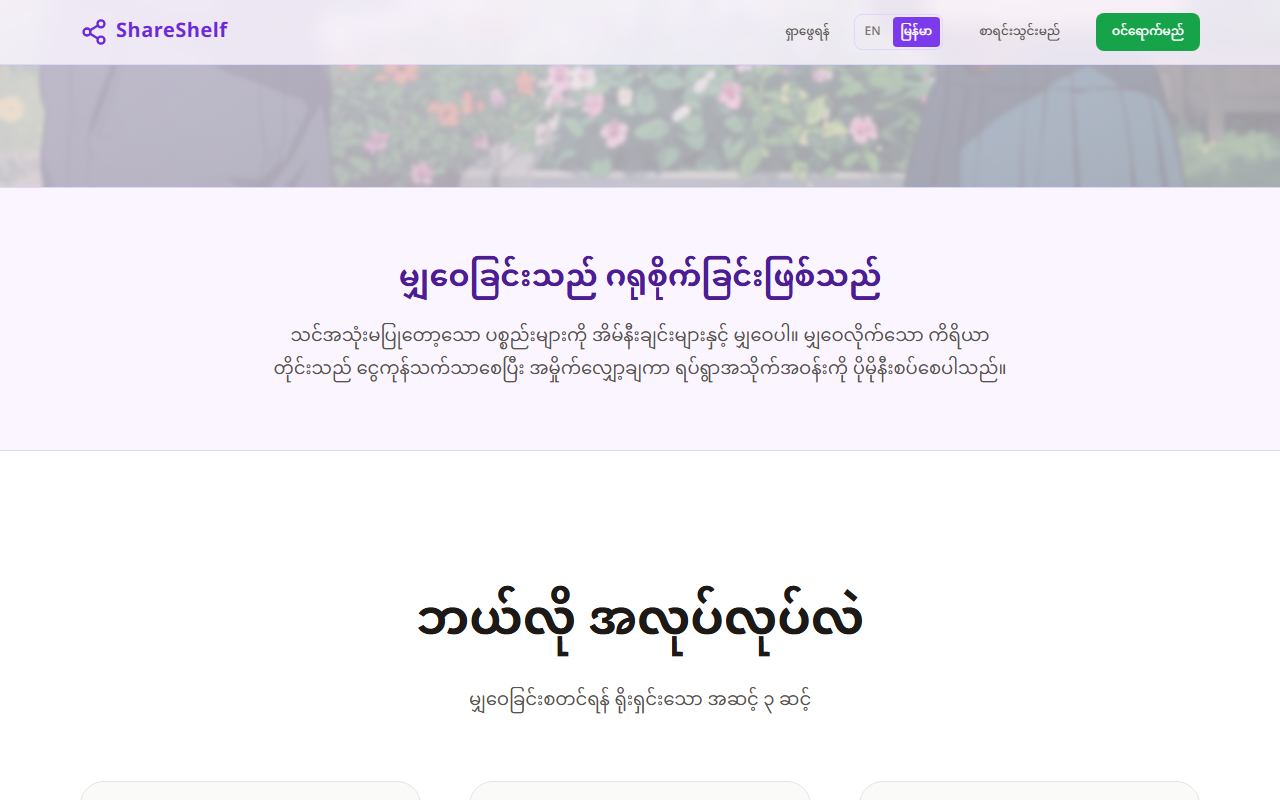
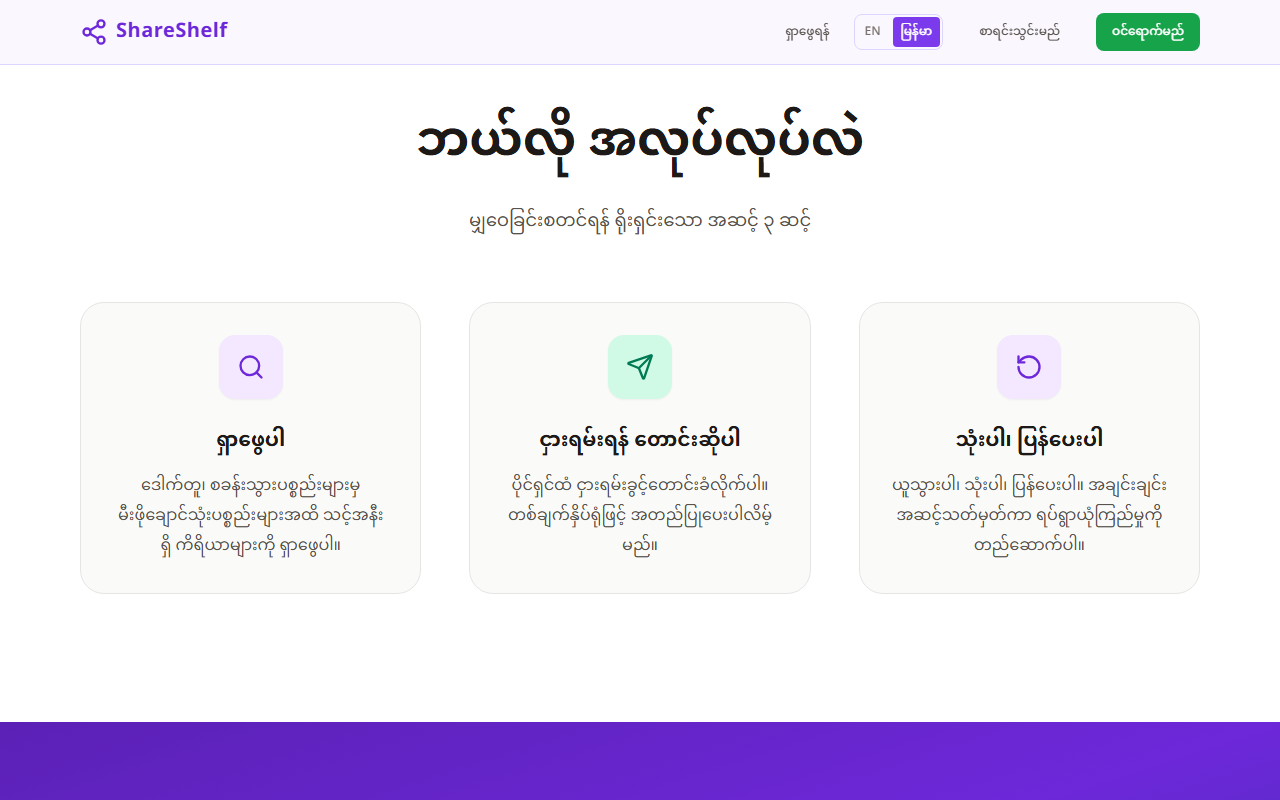
Update screenshots and add screenshot script

diff --git a/frontend/screenshot.js b/frontend/screenshot.js
@@ -1,0 +1,63 @@
+const { chromium } = require('playwright');
+const fs = require('fs');
+
+(async () => {
+  const browser = await chromium.launch();
+  const context = await browser.newContext({ viewport: { width: 1280, height: 800 } });
+  const page = await context.newPage();
+  
+  console.log('Loading page...');
+  await page.goto('https://share-shelf-ashen.vercel.app/my');
+  await page.waitForTimeout(5000);
+
+  // 1. Hero
+  console.log('Taking screenshot 1 (Hero)...');
+  await page.evaluate(() => window.scrollTo(0, 0));
+  await page.waitForTimeout(1000);
+  await page.screenshot({ path: '../screenshots/01.png' });
+
+  // 2. How it works
+  console.log('Taking screenshot 2 (How it works)...');
+  await page.evaluate(() => {
+    const headings = Array.from(document.querySelectorAll('h2, h3'));
+    // Find the heading that contains the text
+    const target = headings.find(h => h.innerText.includes('ဘယ်လို အလုပ်လုပ်လဲ') || h.innerText.includes('အလုပ်လုပ်'));
+    if (target) {
+      // scroll so the heading is near the top of the viewport
+      const y = target.getBoundingClientRect().top + window.scrollY - 100;
+      window.scrollTo(0, y);
+    } else {
+      window.scrollTo(0, 950);
+    }
+  });
+  await page.waitForTimeout(1000);
+  await page.screenshot({ path: '../screenshots/02.png' });
+
+  // 3. Testimonial and CTA
+  console.log('Taking screenshot 3 (Testimonial)...');
+  await page.evaluate(() => {
+    const pTags = Array.from(document.querySelectorAll('p'));
+    const target = pTags.find(p => p.innerText.includes('အတူတူ') || p.innerText.includes('မျှဝေကြပါစို့'));
+    if (target) {
+      // Center the testimonial roughly
+      const y = target.getBoundingClientRect().top + window.scrollY - 300;
+      window.scrollTo(0, y);
+    } else {
+      // Find the last CTA section
+      const sections = document.querySelectorAll('section');
+      if (sections.length > 0) {
+          const lastSection = sections[sections.length - 1];
+          const y = lastSection.getBoundingClientRect().top + window.scrollY - 200;
+          window.scrollTo(0, y);
+      } else {
+          window.scrollTo(0, document.body.scrollHeight - 900);
+      }
+    }
+  });
+  await page.waitForTimeout(1000);
+  await page.screenshot({ path: '../screenshots/03.png' });
+
+  await context.close();
+  await browser.close();
+  console.log('Done!');
+})();
